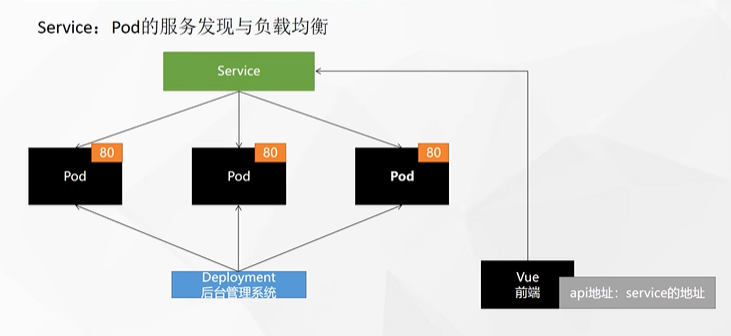
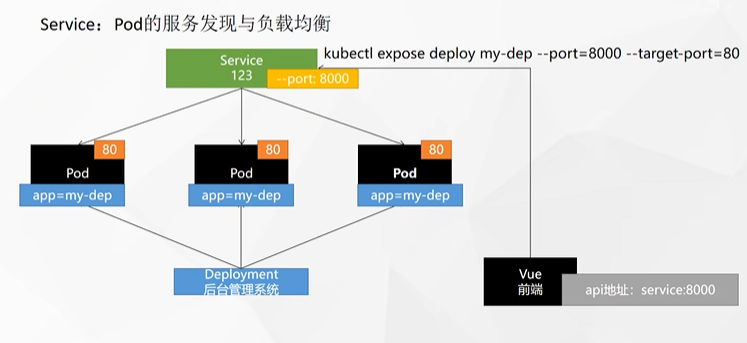
no message

Changed region(s): [[0.0, 0.0298, 0.9932, 0.9226], [0.4514, 0.3571, 0.4815, 0.3869]]

diff --git a/K8sBasic.md b/K8sBasic.md
@@ -689,6 +689,10 @@ https://kubernetes.io/zh/docs/concepts/workloads/controllers/
 
 可以通过IP+端口访问也可以通过域名+端口访问，域名：服务名.所在名称空间.svc，例如service-name.default.scv。
 
+<div align='center'>
+    <img src='./imgs/k8s/013.png' width='800px'>
+</div>
+
 ```bash
 #暴露Deploy
 kubectl expose deployment my-dep --port=8000 --target-port=80
@@ -739,15 +743,13 @@ spec:
   type: ClusterIP
 ```
 
-<div align='center'>
-    <img src='./imgs/k8s/image-20221105160322038.png' width='800px'>
-</div>
 
 ### NodePort（集群外也可以访问）
 
 <div align='center'>
-    <img src='./imgs/k8s/image-20221105173248410.png' width='800px'>
+    <img src='./imgs/k8s/015.png' width='800px'>
 </div>
+
 
 每个机器都有一个公网IP，端口范围在30000-32767之间。
 
@@ -780,8 +782,9 @@ kubectl get pod,svc -n ingress-nginx
 ### 使用
 
 <div align='center'>
-    <img src='./imgs/k8s/image-20221105203035699.png' width='800px'>
+    <img src='./imgs/k8s/016.png' width='800px'>
 </div>
+
 
 ```yaml
 apiVersion: apps/v1
